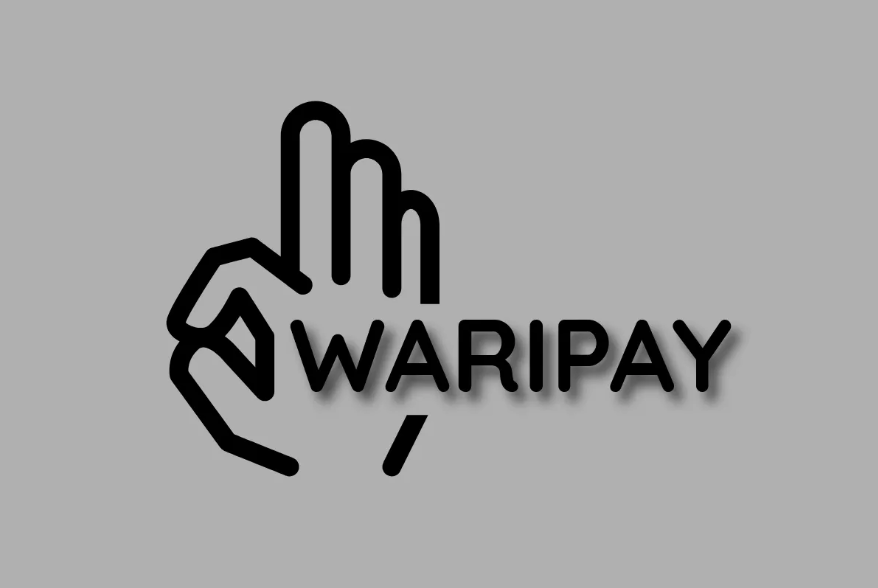
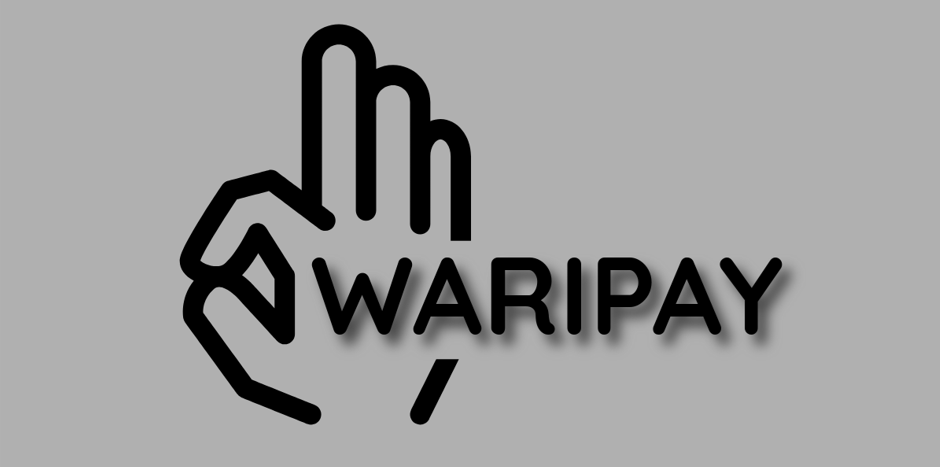
ｄｄｄｄ

Changed region(s): [[0.1845, 0.2998, 0.861, 0.9293], [0.3075, 0.03, 0.5228, 0.5096]]

diff --git a/User/イベントの閲覧と選択.css b/User/イベントの閲覧と選択.css
@@ -1,5 +1,5 @@
 #logo img {
-  max-width: 350px; /* ロゴの最大幅を少し小さく調整 */
+  max-width: 250px; /* ロゴの最大幅を少し小さく調整 */
   height: auto; /* アスペクト比を維持 */
   margin: 10px auto; /* 上下に少し余白を追加 */
   display: block; /* 中央揃え */

diff --git a/User/イベントの閲覧と選択.php b/User/イベントの閲覧と選択.php
@@ -33,6 +33,26 @@
                 <div class="event-date">開始日時: 2024年2月1日</div>
             </div>
         </div>
+        <div class="event-list">
+            <div class="event-item" onclick="location.href='出来事の閲覧と選択.php'">
+                <div class="event-name">沖縄旅行</div>
+                <div class="event-date">開始日時: 2024年1月1日</div>
+            </div>
+            <div class="event-item" onclick="location.href='出来事の閲覧と選択.php'">
+                <div class="event-name">合宿</div>
+                <div class="event-date">開始日時: 2024年2月1日</div>
+            </div>
+        </div>
+        <div class="event-list">
+            <div class="event-item" onclick="location.href='出来事の閲覧と選択.php'">
+                <div class="event-name">沖縄旅行</div>
+                <div class="event-date">開始日時: 2024年1月1日</div>
+            </div>
+            <div class="event-item" onclick="location.href='出来事の閲覧と選択.php'">
+                <div class="event-name">合宿</div>
+                <div class="event-date">開始日時: 2024年2月1日</div>
+            </div>
+        </div>
     </div>
 </body>
 </html>
